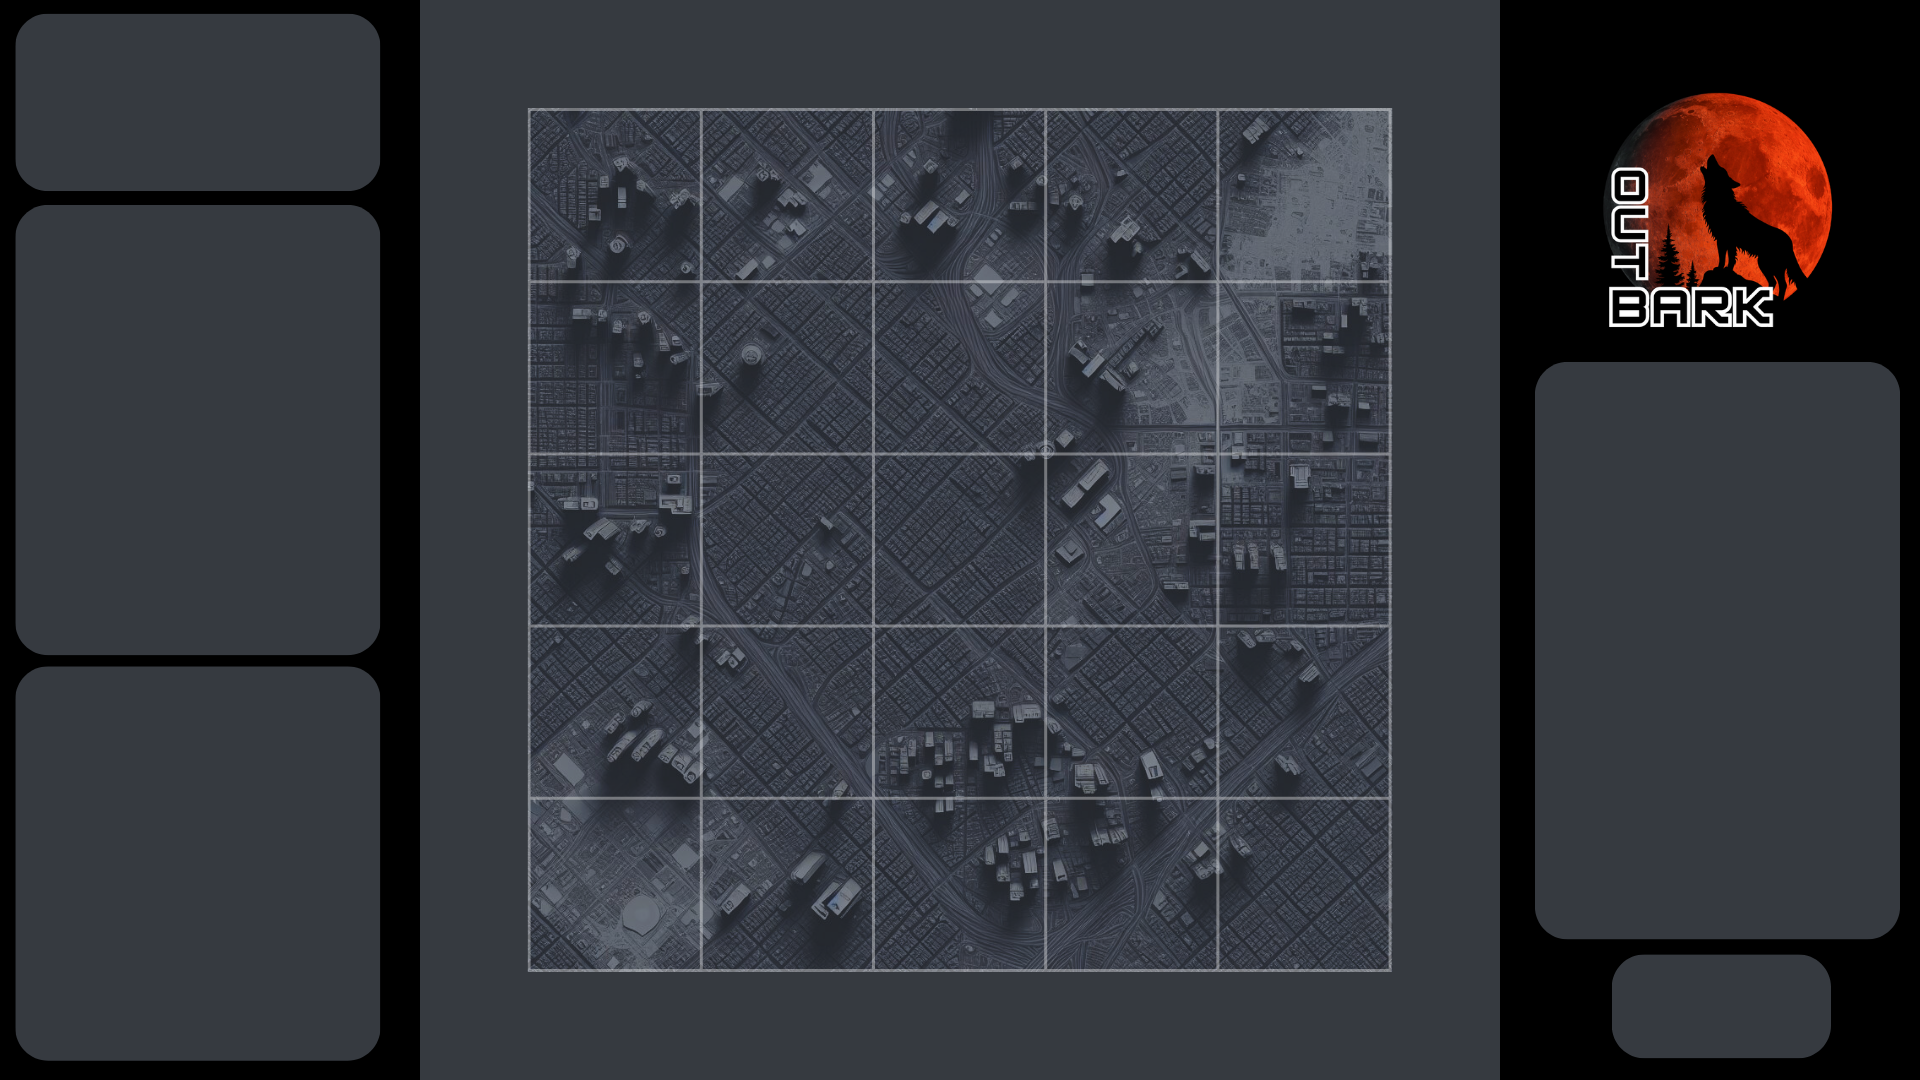
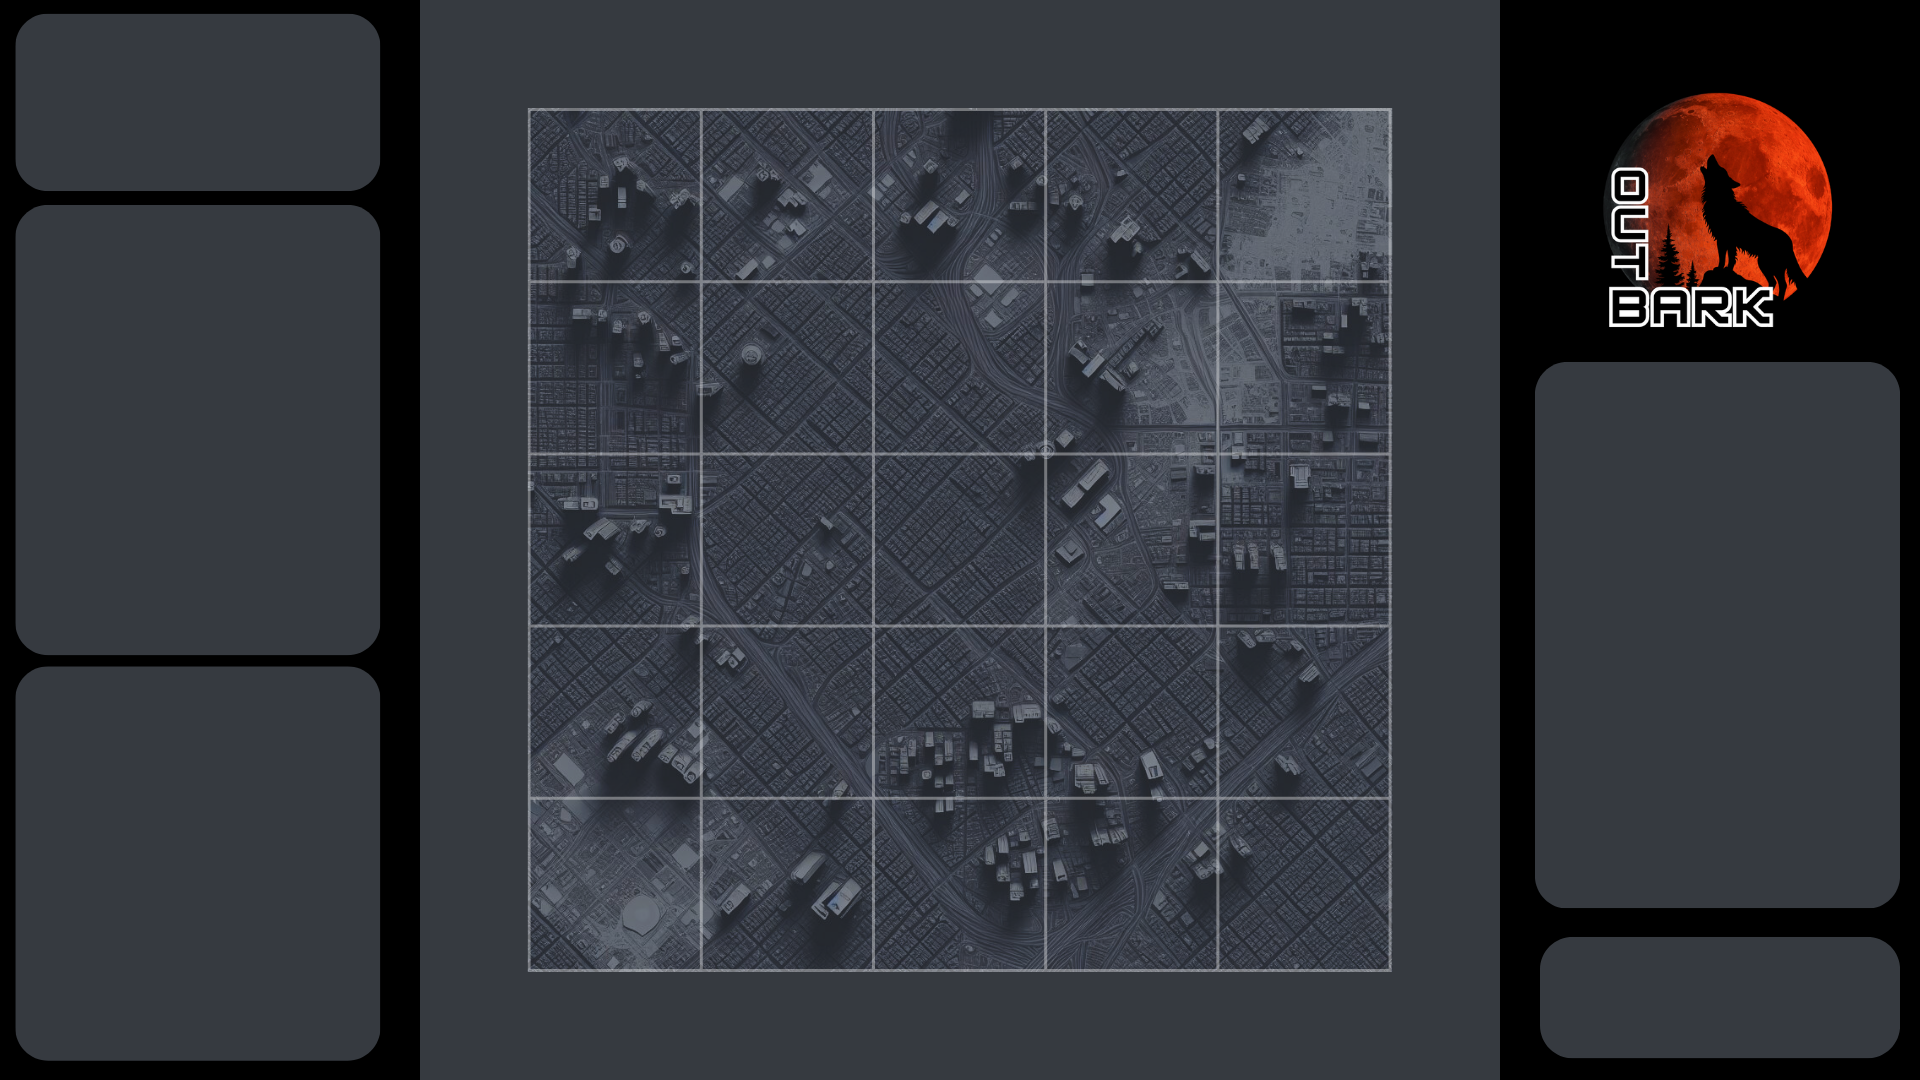
hmm

Changed region(s): [[0.7812, 0.825, 1.0, 0.9778]]

diff --git a/gui/screens/Game.java b/gui/screens/Game.java
@@ -71,8 +71,8 @@ public class Game extends BaseScreen implements ButtonActions<GameButton>, TextD
         textPanels.get(GameText.TaskTitle).setBounds(60, 640, 220, 200);
         textPanels.get(GameText.Task).setBounds(60, 720, 250, 200);
 
-        textPanels.get(GameText.DataTitle).setBounds(1600, 430, 220, 500);
-        textPanels.get(GameText.Data).setBounds(1600, 520, 220, 500);
+        textPanels.get(GameText.DataTitle).setBounds(1600, 380, 220, 500);
+        textPanels.get(GameText.Data).setBounds(1600, 470, 220, 500);
     }
     
     @Override

diff --git a/gui/utils/ImageDrawer.java b/gui/utils/ImageDrawer.java
@@ -16,7 +16,7 @@ import src.utils.Direction;
 import src.utils.Tuple;
 
 public class ImageDrawer {
-    private final int ENTITY_SIZE = 25;
+    private final int ENTITY_SIZE = 50;
     private final int LANDMARK_SIZE = 75;
     private final int BARRICADE_SIZE = 30;
 
